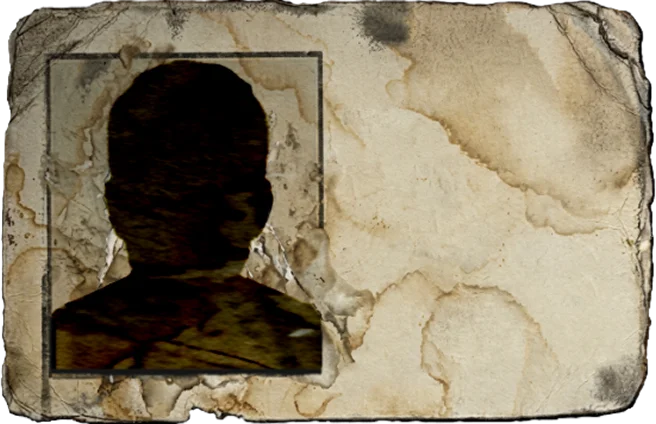
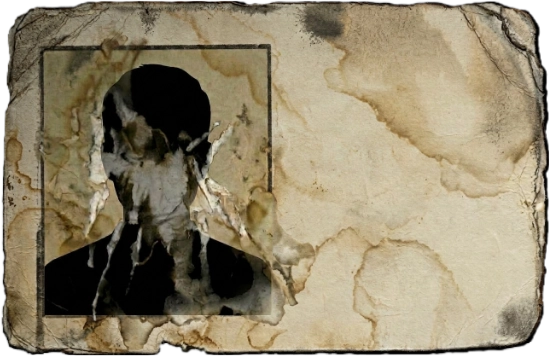
Hide LoginCard auth buttons behind authEnabled and update card image

diff --git a/frontend/src/components/LoginCard.vue b/frontend/src/components/LoginCard.vue
@@ -2,6 +2,8 @@
 defineProps({
   // null = ingen inloggad. Formen bestäms när inloggningen finns
   player: { type: Object, default: null },
+  // Knapparna för inloggning visas bara när inloggningen är byggd
+  authEnabled: { type: Boolean, default: false },
 });
 
 const emit = defineEmits(['identify', 'logout', 'signup']);
@@ -15,11 +17,13 @@ const emit = defineEmits(['identify', 'logout', 'signup']);
       <p class="status" :class="{ known: player }">
         {{ player ? player.username : 'OIDENTIFIERAD' }}
       </p>
-      <div v-if="!player" class="actions">
+      <div v-if="authEnabled && !player" class="actions">
         <button type="button" class="stamp" @click="emit('identify')">IDENTIFIERA</button>
         <button type="button" class="stamp new-id" @click="emit('signup')">NY IDENTITET</button>
       </div>
-      <button v-else type="button" class="stamp logout" @click="emit('logout')">STÄMPLA UT</button>
+      <button v-else-if="player" type="button" class="stamp logout" @click="emit('logout')">
+        STÄMPLA UT
+      </button>
     </div>
   </section>
 </template>
@@ -28,7 +32,7 @@ const emit = defineEmits(['identify', 'logout', 'signup']);
 .id-card {
   position: relative;
   width: 100%;
-  aspect-ratio: 656 / 424;
+  aspect-ratio: 550 / 357;
   background: url('@/assets/images/logincard.webp') center / contain no-repeat;
   container-type: inline-size;
   color: var(--color-ink);
@@ -41,6 +45,7 @@ const emit = defineEmits(['identify', 'logout', 'signup']);
   inset: 13% 6% 13% 51%;
   display: flex;
   flex-direction: column;
+  justify-content: center;
 }
 
 h2 {

diff --git a/frontend/src/views/HomeView.vue b/frontend/src/views/HomeView.vue
@@ -12,7 +12,7 @@ import { prologuePages } from '@/data/prologue';
 const router = useRouter();
 const { error, start, resume, hasActiveSession, checkActiveSession } = useGame();
 
-// <dialog> på rad 55 ger bakgrund, stängning med Esc och håller fokus i menyn.
+// <dialog> längst ner i templaten ger bakgrund, stängning med Esc och håller fokus i menyn.
 // Variabelnamnet matchar ref="menu" i templaten, så Vue lägger elementet här efter rendering
 const menu = ref(null);
 

diff --git a/README.md b/README.md
@@ -274,16 +274,17 @@ Just nu öppnas den med en tillfällig knapp i ytan `area-handbook` i `HomeView`
 
 `LoginCard` visar spelarens ID-kort på startsidan och förbereder inloggningen. Komponenten visar bara det den får och skickar events uppåt, så den behöver inte ändras när inloggningen byggs.
 
-| Prop / event | Gör                                                                        |
-| ------------ | -------------------------------------------------------------------------- |
-| `player`     | Den inloggade spelaren, t.ex. `{ username }`. `null` visar "OIDENTIFIERAD" |
-| `@identify`  | Skickas när spelaren klickar "Identifiera". Ska öppna inloggningen         |
-| `@signup`    | Skickas när spelaren klickar "Ny identitet". Ska öppna registreringen      |
-| `@logout`    | Skickas när en inloggad spelare klickar "Stämpla ut"                       |
+| Prop / event  | Gör                                                                                |
+| ------------- | ---------------------------------------------------------------------------------- |
+| `player`      | Den inloggade spelaren, t.ex. `{ username }`. `null` visar "OIDENTIFIERAD"         |
+| `authEnabled` | Visar knapparna "Identifiera" och "Ny identitet". `false` tills inloggningen finns |
+| `@identify`   | Skickas när spelaren klickar "Identifiera". Ska öppna inloggningen                 |
+| `@signup`     | Skickas när spelaren klickar "Ny identitet". Ska öppna registreringen              |
+| `@logout`     | Skickas när en inloggad spelare klickar "Stämpla ut"                               |
 
 Bakgrunden är bilden `logincard.webp` med papperet och fotot, och texten ligger som HTML ovanpå. Kortet är en container (`container-type: inline-size`) och textstorlekarna anges i `cqw`, procent av kortets bredd. Därför behåller texten sina proportioner när kortet ändrar storlek.
 
-Det finns ingen inloggning än, så `@identify`, `@signup` och `@logout` har ingen mottagare i `HomeView`.
+Det finns ingen inloggning än, så `authEnabled` är `false` och knapparna döljs. `@identify`, `@signup` och `@logout` har ingen mottagare i `HomeView`.
 
 ### Gemensamma stilar
 
